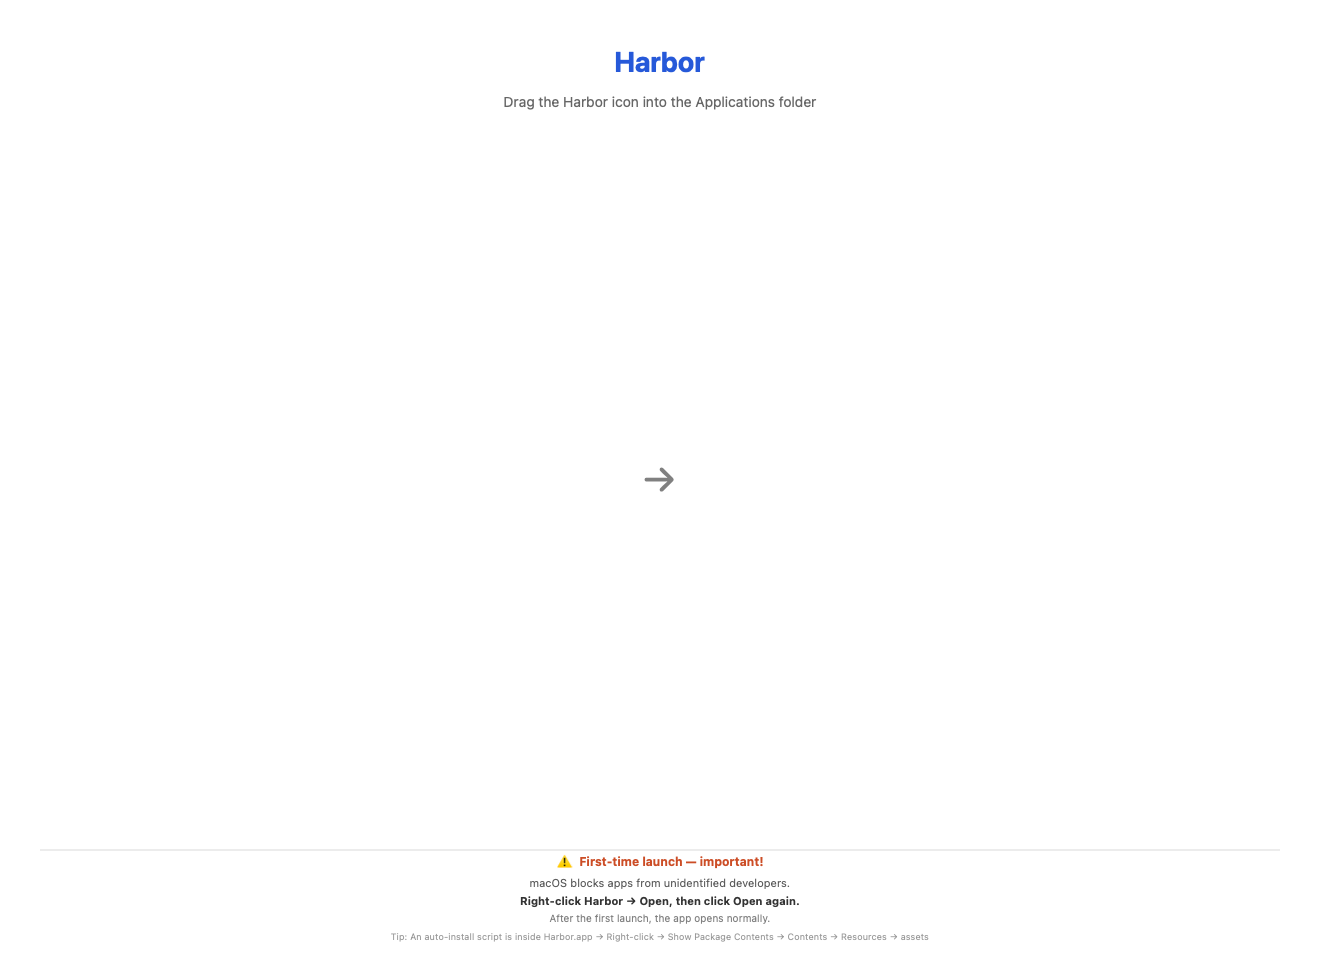
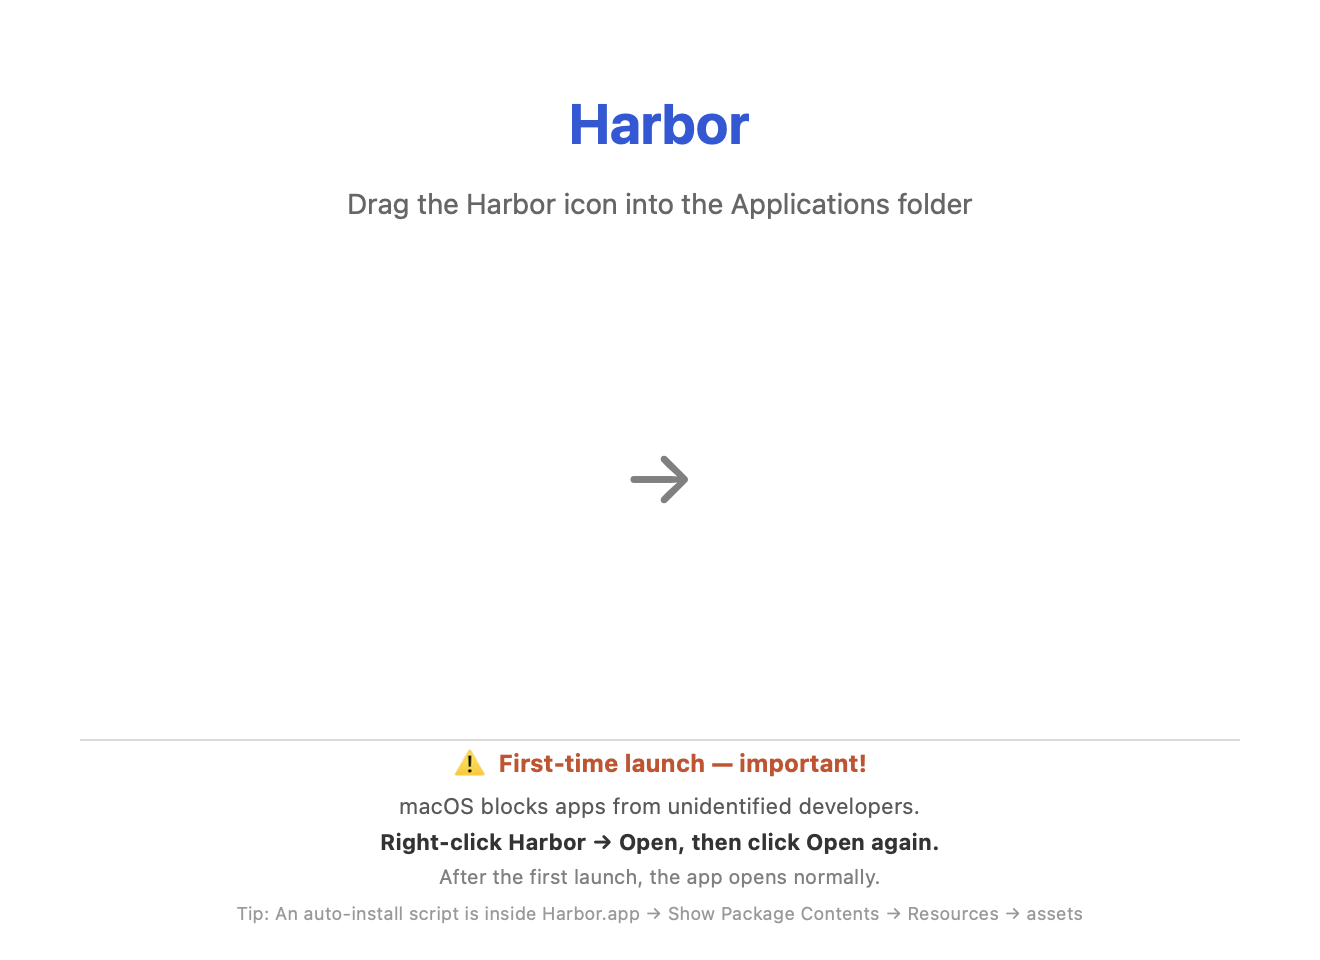
fix: DMG background at correct 660x480 with lockFocus (sharp) + bitmap fallback
- Revert to NSImage.lockFocus() for sharp rendering (correct for DMG)
- Keep NSBitmapImageRep as CI fallback if lockFocus unavailable
- Remove 2x scale — DMG window expects exact logical size

diff --git a/tools/generate_dmg_background.swift b/tools/generate_dmg_background.swift
@@ -3,13 +3,126 @@ import AppKit
 import Foundation
 
 // ── DMG Background Generator for Harbor ──
-// Works in both local and headless CI (uses offscreen bitmap, not screen-locked NSImage).
-// Renders at 2x for Retina displays — macOS scales the background to fit the DMG window.
+// Tries lockFocus() first (sharpest), falls back to offscreen bitmap (CI-safe).
+// The DMG window is 660×480 — the image must match exactly.
 
-let scale = 2
-let width = 660 * scale
-let height = 480 * scale
+let width = 660
+let height = 480
 
+func render(into ctx: NSGraphicsContext?) {
+    // ── Solid white background ──
+    NSColor.white.setFill()
+    NSRect(x: 0, y: 0, width: width, height: height).fill()
+
+    // ── Title ──
+    let titleStyle = NSMutableParagraphStyle()
+    titleStyle.alignment = .center
+    let titleAttrs: [NSAttributedString.Key: Any] = [
+        .font: NSFont.boldSystemFont(ofSize: 28),
+        .foregroundColor: NSColor(red: 0.15, green: 0.35, blue: 0.85, alpha: 1.0),
+        .paragraphStyle: titleStyle,
+    ]
+    ("Harbor").draw(in: NSRect(x: 0, y: height - 80, width: width, height: 35), withAttributes: titleAttrs)
+
+    // ── Drag instruction ──
+    let subAttrs: [NSAttributedString.Key: Any] = [
+        .font: NSFont.systemFont(ofSize: 14),
+        .foregroundColor: NSColor(white: 0.4, alpha: 1.0),
+        .paragraphStyle: titleStyle,
+    ]
+    ("Drag the Harbor icon into the Applications folder")
+        .draw(in: NSRect(x: 0, y: height - 115, width: width, height: 22), withAttributes: subAttrs)
+
+    // ── Arrow ──
+    let arrowAttrs: [NSAttributedString.Key: Any] = [
+        .font: NSFont.systemFont(ofSize: 40),
+        .foregroundColor: NSColor(white: 0.5, alpha: 1.0),
+        .paragraphStyle: titleStyle,
+    ]
+    ("→").draw(in: NSRect(x: 0, y: height / 2 - 25, width: width, height: 50), withAttributes: arrowAttrs)
+
+    // ── Separator line ──
+    let lineY = 110
+    NSColor(white: 0.85, alpha: 1.0).setStroke()
+    let linePath = NSBezierPath()
+    linePath.move(to: NSPoint(x: 40, y: lineY))
+    linePath.line(to: NSPoint(x: width - 40, y: lineY))
+    linePath.lineWidth = 1
+    linePath.stroke()
+
+    // ── Important note ──
+    let noteStyle = NSMutableParagraphStyle()
+    noteStyle.alignment = .center
+
+    let noteTitleAttrs: [NSAttributedString.Key: Any] = [
+        .font: NSFont.boldSystemFont(ofSize: 12),
+        .foregroundColor: NSColor(red: 0.8, green: 0.3, blue: 0.15, alpha: 1.0),
+        .paragraphStyle: noteStyle,
+    ]
+    ("⚠️  First-time launch — important!")
+        .draw(in: NSRect(x: 0, y: lineY - 22, width: width, height: 18), withAttributes: noteTitleAttrs)
+
+    let noteAttrs: [NSAttributedString.Key: Any] = [
+        .font: NSFont.systemFont(ofSize: 11),
+        .foregroundColor: NSColor(white: 0.35, alpha: 1.0),
+        .paragraphStyle: noteStyle,
+    ]
+    ("macOS blocks apps from unidentified developers.")
+        .draw(in: NSRect(x: 20, y: lineY - 42, width: width - 40, height: 16), withAttributes: noteAttrs)
+
+    let instrAttrs: [NSAttributedString.Key: Any] = [
+        .font: NSFont.boldSystemFont(ofSize: 11),
+        .foregroundColor: NSColor(white: 0.2, alpha: 1.0),
+        .paragraphStyle: noteStyle,
+    ]
+    ("Right-click Harbor → Open, then click Open again.")
+        .draw(in: NSRect(x: 20, y: lineY - 60, width: width - 40, height: 16), withAttributes: instrAttrs)
+
+    let extraAttrs: [NSAttributedString.Key: Any] = [
+        .font: NSFont.systemFont(ofSize: 10),
+        .foregroundColor: NSColor(white: 0.5, alpha: 1.0),
+        .paragraphStyle: noteStyle,
+    ]
+    ("After the first launch, the app opens normally.")
+        .draw(in: NSRect(x: 20, y: lineY - 78, width: width - 40, height: 16), withAttributes: extraAttrs)
+
+    let scriptAttrs: [NSAttributedString.Key: Any] = [
+        .font: NSFont.systemFont(ofSize: 9),
+        .foregroundColor: NSColor(white: 0.6, alpha: 1.0),
+        .paragraphStyle: noteStyle,
+    ]
+    ("Tip: An auto-install script is inside Harbor.app → Show Package Contents → Resources → assets")
+        .draw(in: NSRect(x: 20, y: lineY - 95, width: width - 40, height: 14), withAttributes: scriptAttrs)
+}
+
+func encodePNG(from image: NSImage) -> Data? {
+    guard let tiff = image.tiffRepresentation,
+          let bitmap = NSBitmapImageRep(data: tiff) else { return nil }
+    return bitmap.representation(using: .png, properties: [:])
+}
+
+func encodePNG(from imageRep: NSBitmapImageRep) -> Data? {
+    return imageRep.representation(using: .png, properties: [:])
+}
+
+let path = CommandLine.arguments.count > 1
+    ? CommandLine.arguments[1]
+    : "crates/tauri-app/dmg_background.png"
+
+// Try screen-backed NSImage first (sharpest, works locally)
+let image = NSImage(size: NSSize(width: width, height: height))
+image.lockFocus()
+render(into: NSGraphicsContext.current)
+image.unlockFocus()
+
+if let png = encodePNG(from: image) {
+    try png.write(to: URL(fileURLWithPath: path))
+    print("✅ DMG background saved to \(path) (screen-backed)")
+    exit(0)
+}
+
+// Fallback: offscreen bitmap for headless CI
+print("⚠️  Screen-backed render failed, trying offscreen bitmap...")
 guard let imageRep = NSBitmapImageRep(
     bitmapDataPlanes: nil,
     pixelsWide: width,
@@ -29,103 +142,13 @@ imageRep.size = NSSize(width: width, height: height)
 
 NSGraphicsContext.saveGraphicsState()
 NSGraphicsContext.current = NSGraphicsContext(bitmapImageRep: imageRep)
-
-// ── Solid white background ──
-NSColor.white.setFill()
-NSRect(x: 0, y: 0, width: width, height: height).fill()
-
-// ── Title ──
-let titleStyle = NSMutableParagraphStyle()
-titleStyle.alignment = .center
-
-let titleAttrs: [NSAttributedString.Key: Any] = [
-    .font: NSFont.boldSystemFont(ofSize: 28),
-    .foregroundColor: NSColor(red: 0.15, green: 0.35, blue: 0.85, alpha: 1.0),
-    .paragraphStyle: titleStyle,
-]
-("Harbor").draw(in: NSRect(x: 0, y: height - 80, width: width, height: 35), withAttributes: titleAttrs)
-
-// ── Drag instruction ──
-let subAttrs: [NSAttributedString.Key: Any] = [
-    .font: NSFont.systemFont(ofSize: 14),
-    .foregroundColor: NSColor(white: 0.4, alpha: 1.0),
-    .paragraphStyle: titleStyle,
-]
-("Drag the Harbor icon into the Applications folder")
-    .draw(in: NSRect(x: 0, y: height - 115, width: width, height: 22), withAttributes: subAttrs)
-
-// ── Arrow ──
-let arrowAttrs: [NSAttributedString.Key: Any] = [
-    .font: NSFont.systemFont(ofSize: 40),
-    .foregroundColor: NSColor(white: 0.5, alpha: 1.0),
-    .paragraphStyle: titleStyle,
-]
-("→").draw(in: NSRect(x: 0, y: height / 2 - 25, width: width, height: 50), withAttributes: arrowAttrs)
-
-// ── Separator line ──
-let lineY = 110
-NSColor(white: 0.85, alpha: 1.0).setStroke()
-let linePath = NSBezierPath()
-linePath.move(to: NSPoint(x: 40, y: lineY))
-linePath.line(to: NSPoint(x: width - 40, y: lineY))
-linePath.lineWidth = 1
-linePath.stroke()
-
-// ── Important note ──
-let noteStyle = NSMutableParagraphStyle()
-noteStyle.alignment = .center
-
-let noteTitleAttrs: [NSAttributedString.Key: Any] = [
-    .font: NSFont.boldSystemFont(ofSize: 12),
-    .foregroundColor: NSColor(red: 0.8, green: 0.3, blue: 0.15, alpha: 1.0),
-    .paragraphStyle: noteStyle,
-]
-("⚠️  First-time launch — important!")
-    .draw(in: NSRect(x: 0, y: lineY - 22, width: width, height: 18), withAttributes: noteTitleAttrs)
-
-let noteAttrs: [NSAttributedString.Key: Any] = [
-    .font: NSFont.systemFont(ofSize: 11),
-    .foregroundColor: NSColor(white: 0.35, alpha: 1.0),
-    .paragraphStyle: noteStyle,
-]
-("macOS blocks apps from unidentified developers.")
-    .draw(in: NSRect(x: 20, y: lineY - 42, width: width - 40, height: 16), withAttributes: noteAttrs)
-
-let instrAttrs: [NSAttributedString.Key: Any] = [
-    .font: NSFont.boldSystemFont(ofSize: 11),
-    .foregroundColor: NSColor(white: 0.2, alpha: 1.0),
-    .paragraphStyle: noteStyle,
-]
-("Right-click Harbor → Open, then click Open again.")
-    .draw(in: NSRect(x: 20, y: lineY - 60, width: width - 40, height: 16), withAttributes: instrAttrs)
-
-let extraAttrs: [NSAttributedString.Key: Any] = [
-    .font: NSFont.systemFont(ofSize: 10),
-    .foregroundColor: NSColor(white: 0.5, alpha: 1.0),
-    .paragraphStyle: noteStyle,
-]
-("After the first launch, the app opens normally.")
-    .draw(in: NSRect(x: 20, y: lineY - 78, width: width - 40, height: 16), withAttributes: extraAttrs)
-
-let scriptAttrs: [NSAttributedString.Key: Any] = [
-    .font: NSFont.systemFont(ofSize: 9),
-    .foregroundColor: NSColor(white: 0.6, alpha: 1.0),
-    .paragraphStyle: noteStyle,
-]
-("Tip: An auto-install script is inside Harbor.app → Right-click → Show Package Contents → Contents → Resources → assets")
-    .draw(in: NSRect(x: 20, y: lineY - 95, width: width - 40, height: 14), withAttributes: scriptAttrs)
-
+render(into: NSGraphicsContext.current)
 NSGraphicsContext.restoreGraphicsState()
 
-// ── Save as PNG ──
-guard let png = imageRep.representation(using: .png, properties: [:]) else {
+if let png = encodePNG(from: imageRep) {
+    try png.write(to: URL(fileURLWithPath: path))
+    print("✅ DMG background saved to \(path) (offscreen bitmap)")
+} else {
     print("ERROR: Failed to encode PNG")
     exit(1)
 }
-
-let path = CommandLine.arguments.count > 1
-    ? CommandLine.arguments[1]
-    : "crates/tauri-app/dmg_background.png"
-
-try png.write(to: URL(fileURLWithPath: path))
-print("✅ DMG background saved to \(path)")